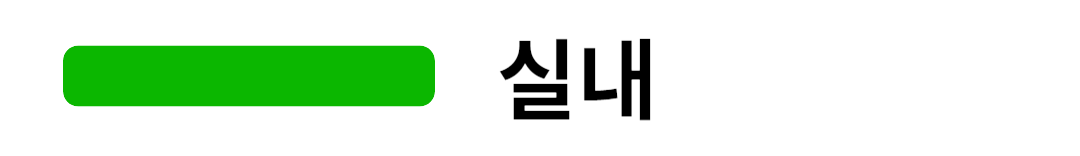
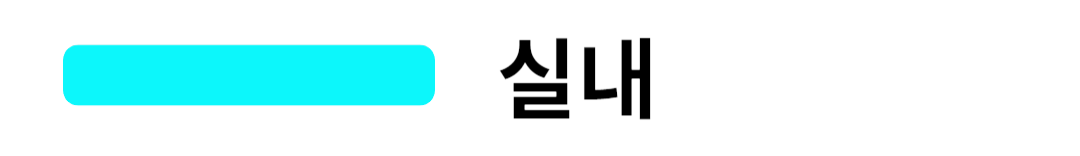
style(실내, 경사로): 범례 이미지 변경
실내 연두색에서 하늘색으로 변경
경사로 초록색에서 주황색으로 변경

diff --git a/src/components/MarkerStyle.js b/src/components/MarkerStyle.js
@@ -152,7 +152,7 @@ export const showMarkerStyle = (markertype) => {
         case 'slope':
             return new Style({
                 stroke: new Stroke({
-                    color: '#0d5f55', // 선의 색상
+                    color: '#ffac00', // 선의 색상
                     width: 3 // 선의 두께
                 })
             });

diff --git a/src/App.js b/src/App.js
@@ -158,7 +158,6 @@ const usePathfinding = () => {
     }
     if (shortestPath) {
       setPathData(shortestPath);
-      console.log(shortestPath)
       handleLegendState(shortestPath)
     }
   };
